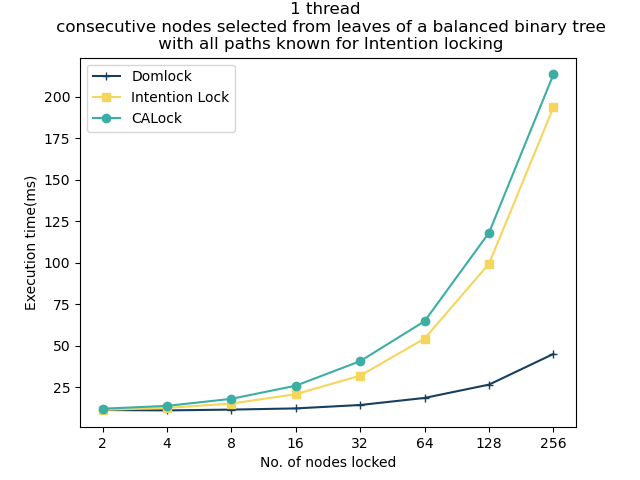
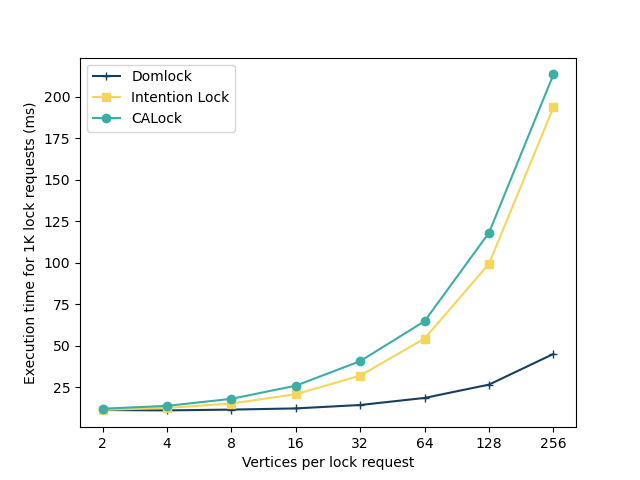
Fix modification id generator

Changed region(s): [[0.0938, 0.0, 0.9375, 0.125], [0.0312, 0.2188, 0.0625, 0.8125], [0.375, 0.9375, 0.6562, 1.0]]

diff --git a/Performance Tests/src/CArelabelling.cpp b/Performance Tests/src/CArelabelling.cpp
@@ -33,7 +33,9 @@ void CArelabelling::run() {
 //        apartQ.pop();
 //    }
     auto t2 = std::chrono::high_resolution_clock::now();
-    pool.modificationTimeCA+= (t2-t1);
+    pool.modificationTimeCA += (t2-t1);
+    pool.count.fetch_add(1);
+//    cout<<(t2-t1).count()<<endl;
 }
 
 
@@ -92,11 +94,10 @@ void CArelabelling::traverse(CompositePart *cpart) {
         set_intersection(firstLabel.begin(), firstLabel.end(), testLabel.begin(),testLabel.end(), back_inserter(common));
         firstLabel = common;
     }
-
+    firstLabel.push_back((cpart->getId()+10)+3);
     cpart->setPathLabel(firstLabel);
 
     AtomicPart *rootPart = cpart->getRootPart();
-    firstLabel.push_back((cpart->getId()+10)+3);
     firstLabel.push_back((rootPart->getId()*10)+4);
     rootPart->setPathLabel(firstLabel);
     apartQ.push(rootPart);
@@ -125,22 +126,6 @@ void CArelabelling::traverse(AtomicPart *apart, Set<AtomicPart *> &visitedPartSe
                                         [tempPathSet](int l){return (tempPathSet.find(l) == tempPathSet.end());});
                 currLabel.erase(newEnd, currLabel.end());
             }
-
-//            Connection *conn = fiter.next();
-//            if (!conn->getSource()->pathLabel.empty()) {
-//                for (auto i: currLabel)
-//                    std::cout << i << ' ';
-//                std::cout<< std::endl;
-//
-//                for(auto i: currLabel){
-//                    if(!conn->getSource()->criticalAncestors.contains(i)){
-//                        currLabel.remove(i);
-//                    }
-//                }
-////                boost::container::list<int> common;
-////                set_intersection(currLabel.begin(), currLabel.end(), conn->getSource()->pathLabel.begin(),conn->getSource()->pathLabel.end(), back_inserter(common));
-////                currLabel = common;
-//            }
         }
 
 //        containerLabel.push_back((apart->getId()*10)+4);

diff --git a/Performance Tests/src/operations/locking_ca/structural_modification_ops_ca.cpp b/Performance Tests/src/operations/locking_ca/structural_modification_ops_ca.cpp
@@ -65,6 +65,7 @@ int sb7::CAStructuralModification3::run(int tid) const {
 
     // generate random composite part id
     int cpartId = get_random()->nextInt(parameters.getMaxCompParts()) + 1;
+    cpartId = (cpartId *(tid+1)) % parameters.getMaxCompParts();
     CompositePart *cpart = dataHolder->getCompositePart(cpartId);
 
     if (cpart == nullptr || cpart->isDeleted) {
@@ -73,8 +74,8 @@ int sb7::CAStructuralModification3::run(int tid) const {
 
     // generate random base assembly id
     int bassmId = get_random()->nextInt(parameters.getMaxBaseAssemblies()) + 1;
+    bassmId = (bassmId *(tid+1)) % parameters.getMaxBaseAssemblies();
     BaseAssembly *bassm = dataHolder->getBaseAssembly(bassmId);
-
     if (bassm == nullptr || bassm->isDeleted) {
         throw Sb7Exception();
     }
@@ -103,7 +104,7 @@ int sb7::CAStructuralModification3::run(int tid) const {
         /// This also needs the ability to convert a read lock into a write lock.
         if(bassm->hasLabel && cpart->hasLabel){
             bassm->addComponent(cpart);
-            auto * r = new CArelabelling(dataHolder);
+            auto * r = new CArelabelling(dataHolder, tid);
             r->cpartQ.push(cpart);
             r->run();
         }

diff --git a/Performance Tests/src/benchmark.cpp b/Performance Tests/src/benchmark.cpp
@@ -277,7 +277,7 @@ void sb7::Benchmark::reportStats(ostream &out) {
     out << "Elapsed time: " << elapsedTime / 1000.0 << " s" << endl;
     std::chrono::duration<long double, std::nano> totalTimeSpentIdle{};
     if(parameters.getLockType()==Parameters::lock_ca){
-        out << "Total relabelling: " << pool.modificationTimeCA.count()/(optypes[6].success+1) << " nanos"<<endl;
+        out << "Total relabelling: " << pool.modificationTimeCA.count()/(pool.count) << " nanos"<<endl;
         int count=1;
         for(auto i: pool.idleness){
             if(i> std::chrono::duration<long double, std::nano>::zero()){
@@ -287,7 +287,7 @@ void sb7::Benchmark::reportStats(ostream &out) {
         }
         totalTimeSpentIdle/=count;
     } else if(parameters.getLockType()==Parameters::lock_dom){
-        out << "Total relabelling: " << ICheck.modificationTimeDom.count()/(optypes[6].success+1) << " nanos"<<endl;
+        out << "Total relabelling: " << ICheck.modificationTimeDom.count()/(pool.count) << " nanos"<<endl;
         int count=1;
         for(auto i: ICheck.Totalidleness){
             if(i>std::chrono::duration<long double, std::nano>::zero()){

diff --git a/StressTest/NodesLockedTree.py b/StressTest/NodesLockedTree.py
@@ -13,9 +13,9 @@ plt.plot(dfMT['Intention Lock'], color='#f6d55c', label='Intention Lock', marker
 plt.plot(dfMT['CALock'], color='#3caea3', label='CALock', marker='o')
 plt.xticks([0, 1, 2, 3, 4, 5, 6, 7], ['2', '4', '8', '16', '32', '64', '128', '256'])
 #plt.yscale("log")
-plt.xlabel("No. of nodes locked")
-plt.ylabel("Execution time(ms)")
+plt.xlabel("Vertices per lock request")
+plt.ylabel("Execution time for 1K lock requests (ms)")
 plt.legend()
-plt.title("1 thread \n consecutive nodes selected from leaves of a balanced binary tree\n with all paths known for Intention locking")
+# plt.title("1 thread \n consecutive nodes selected from leaves of a balanced binary tree\n with all paths known for Intention locking")
 
 plt.savefig('./NodesPerLockRequestTree.png')

diff --git a/StressTest/skewnessImage.py b/StressTest/skewnessImage.py
@@ -10,6 +10,6 @@ plt.plot(dfskewness['Intention Lock'], color='#f6d55c', label='Intention Lock', 
 plt.plot(dfskewness['CALock'], color='#3caea3', label='CALock', marker='o')
 plt.xticks([0, 1, 2, 3, 4, 5, 6, 7], ['1', '2', '4', '8', '16', '32', '64', '128'])
 plt.xlabel("No. of buckets")
-plt.ylabel("Execution time(Log Scale)")
+plt.ylabel("Execution time for 1K lock requests (ms)")
 plt.legend()
 plt.savefig('./Skewness.png')

diff --git a/Performance Tests/src/CArelabelling.h b/Performance Tests/src/CArelabelling.h
@@ -13,9 +13,12 @@ using namespace sb7;
 
 class CArelabelling {
     DataHolder *dataHolder;
+    int tid;
 public:
-    CArelabelling(DataHolder * dh = nullptr){
+    CArelabelling(DataHolder * dh = nullptr, int id = -1){
         dataHolder = dh;
+        tid = id;
+
     }
     queue<ComplexAssembly *> cassmQ;
     queue<BaseAssembly *> bassmQ;

diff --git a/Performance Tests/src/lockPool.h b/Performance Tests/src/lockPool.h
@@ -50,6 +50,7 @@ public:
     long int Gseq;
     std::chrono::duration<long double, std::nano> idleness[SIZE];
     std::chrono::duration<long double, std::nano> modificationTimeCA;
+    atomic<long int> count;
     const uint processor_Count = std::thread::hardware_concurrency();
     lockPool(){
         Gseq = 0;
